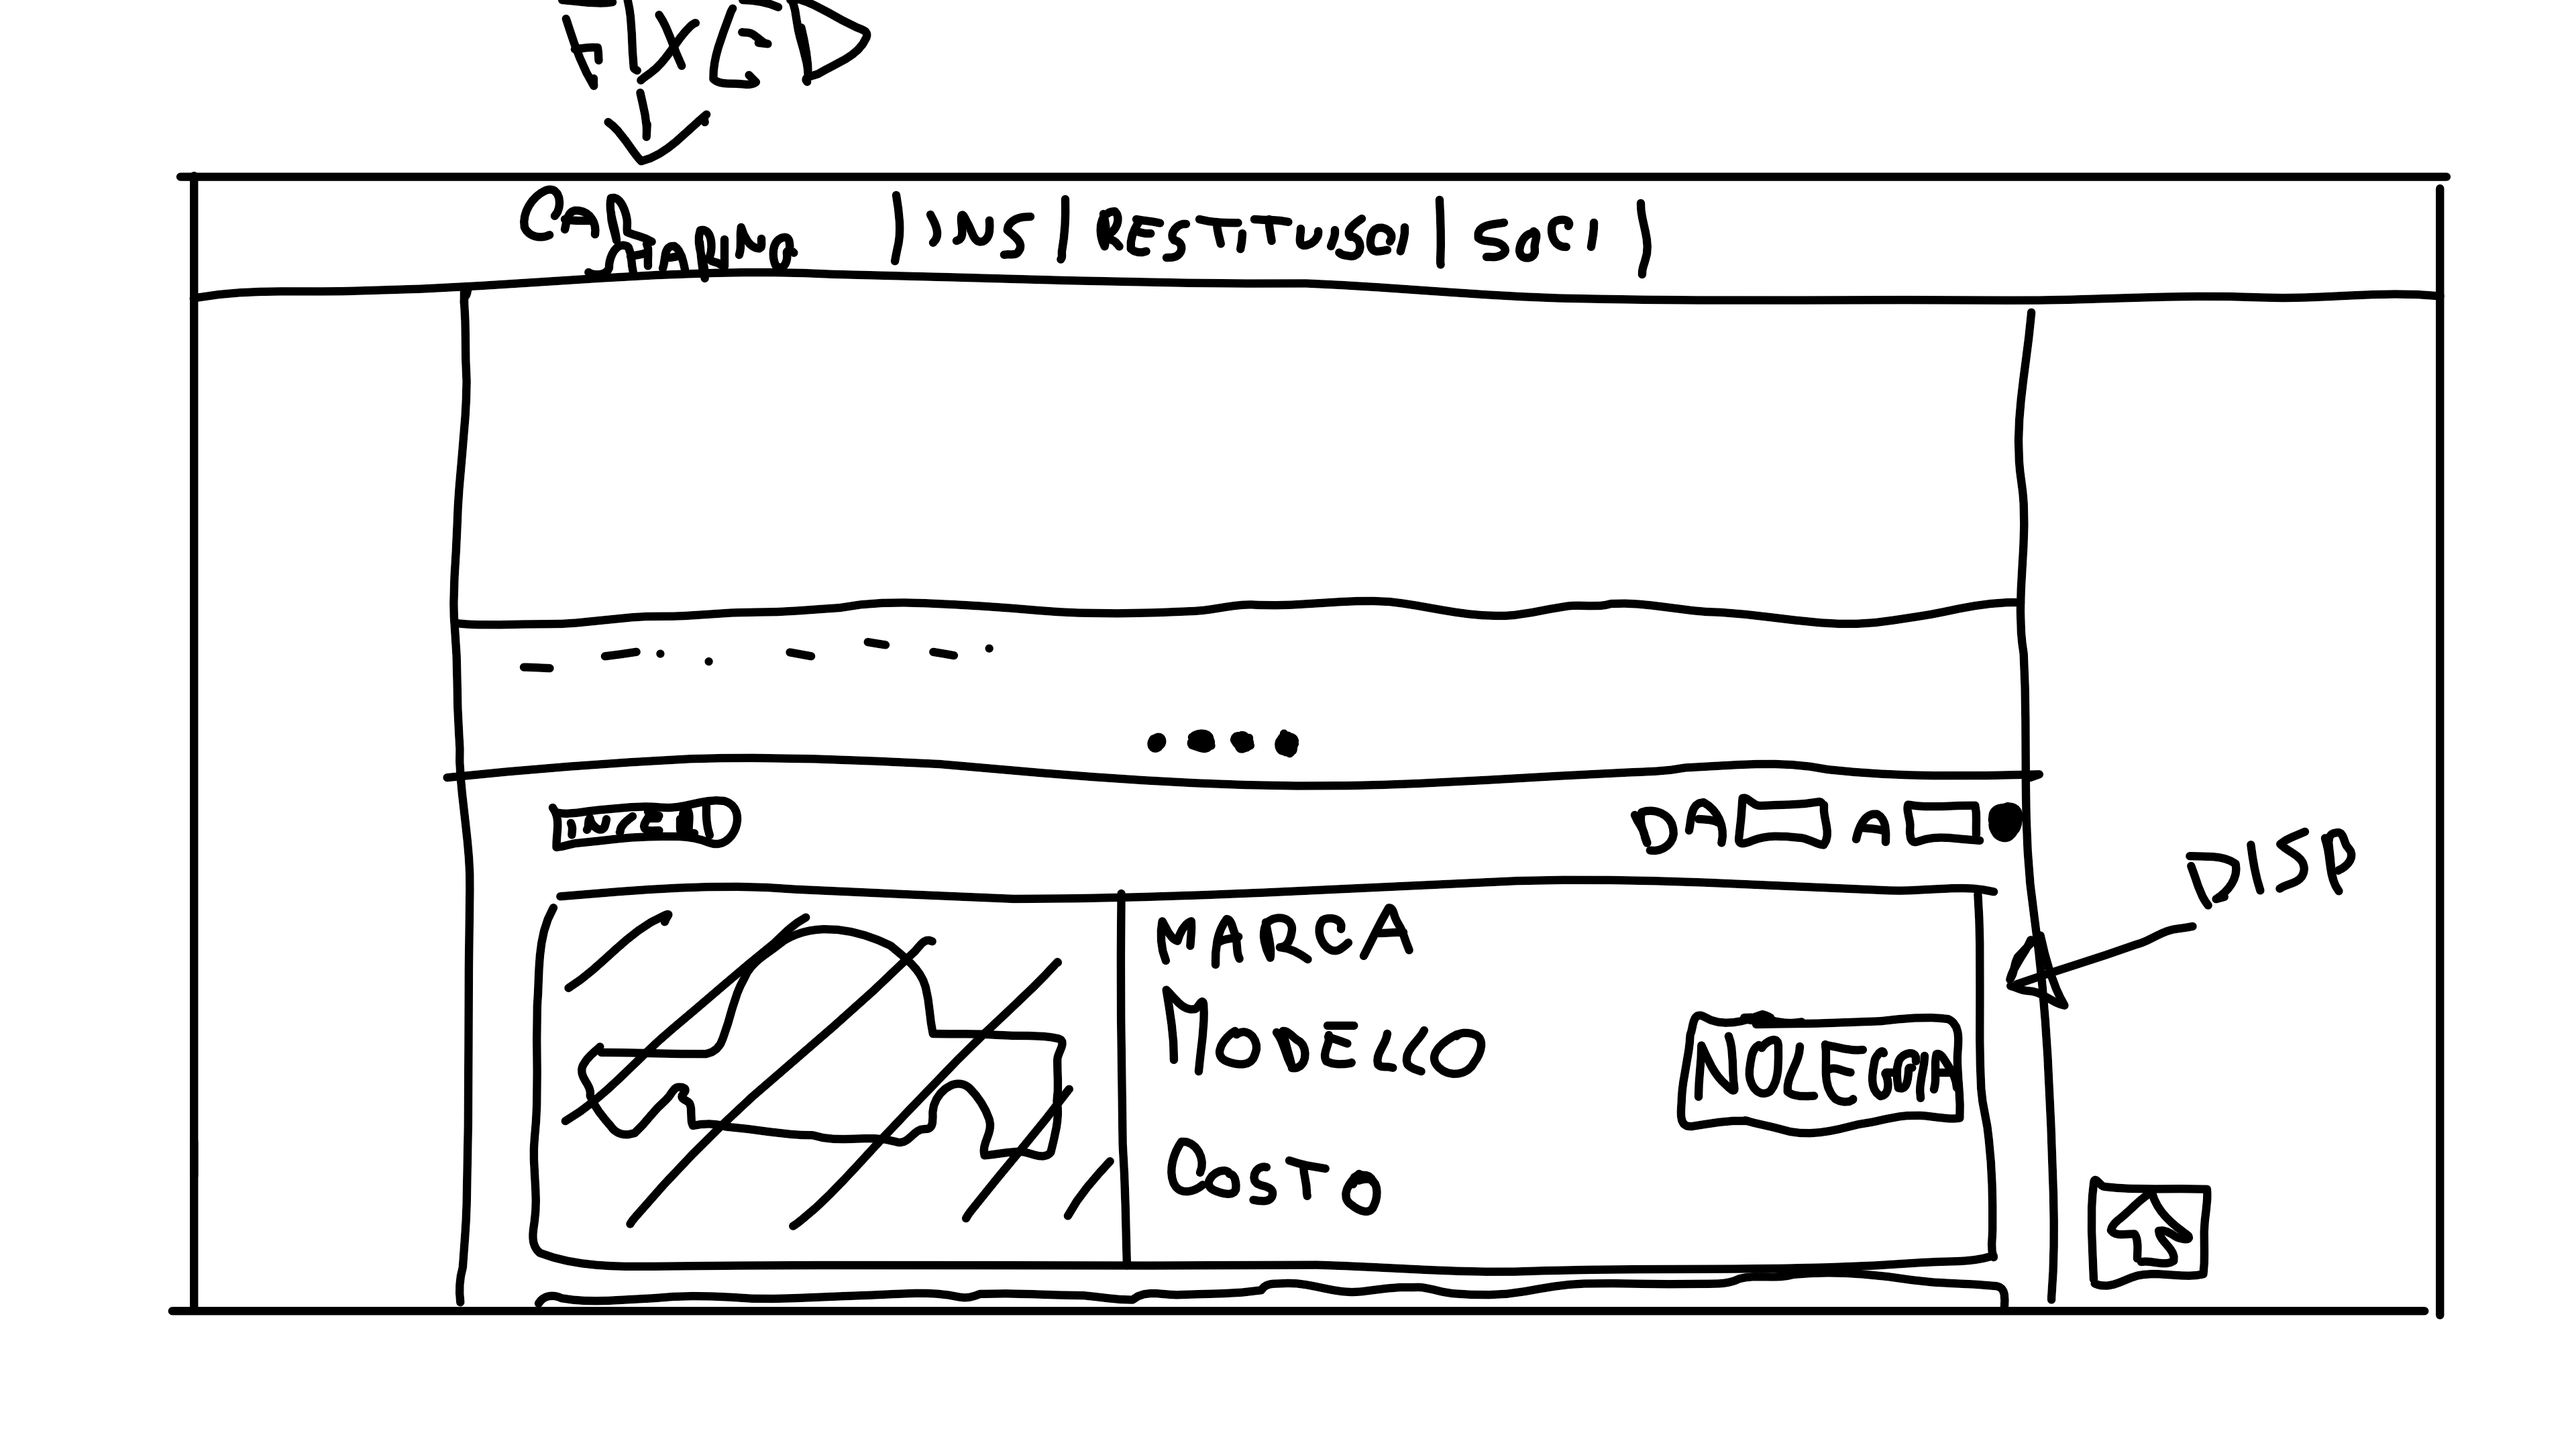
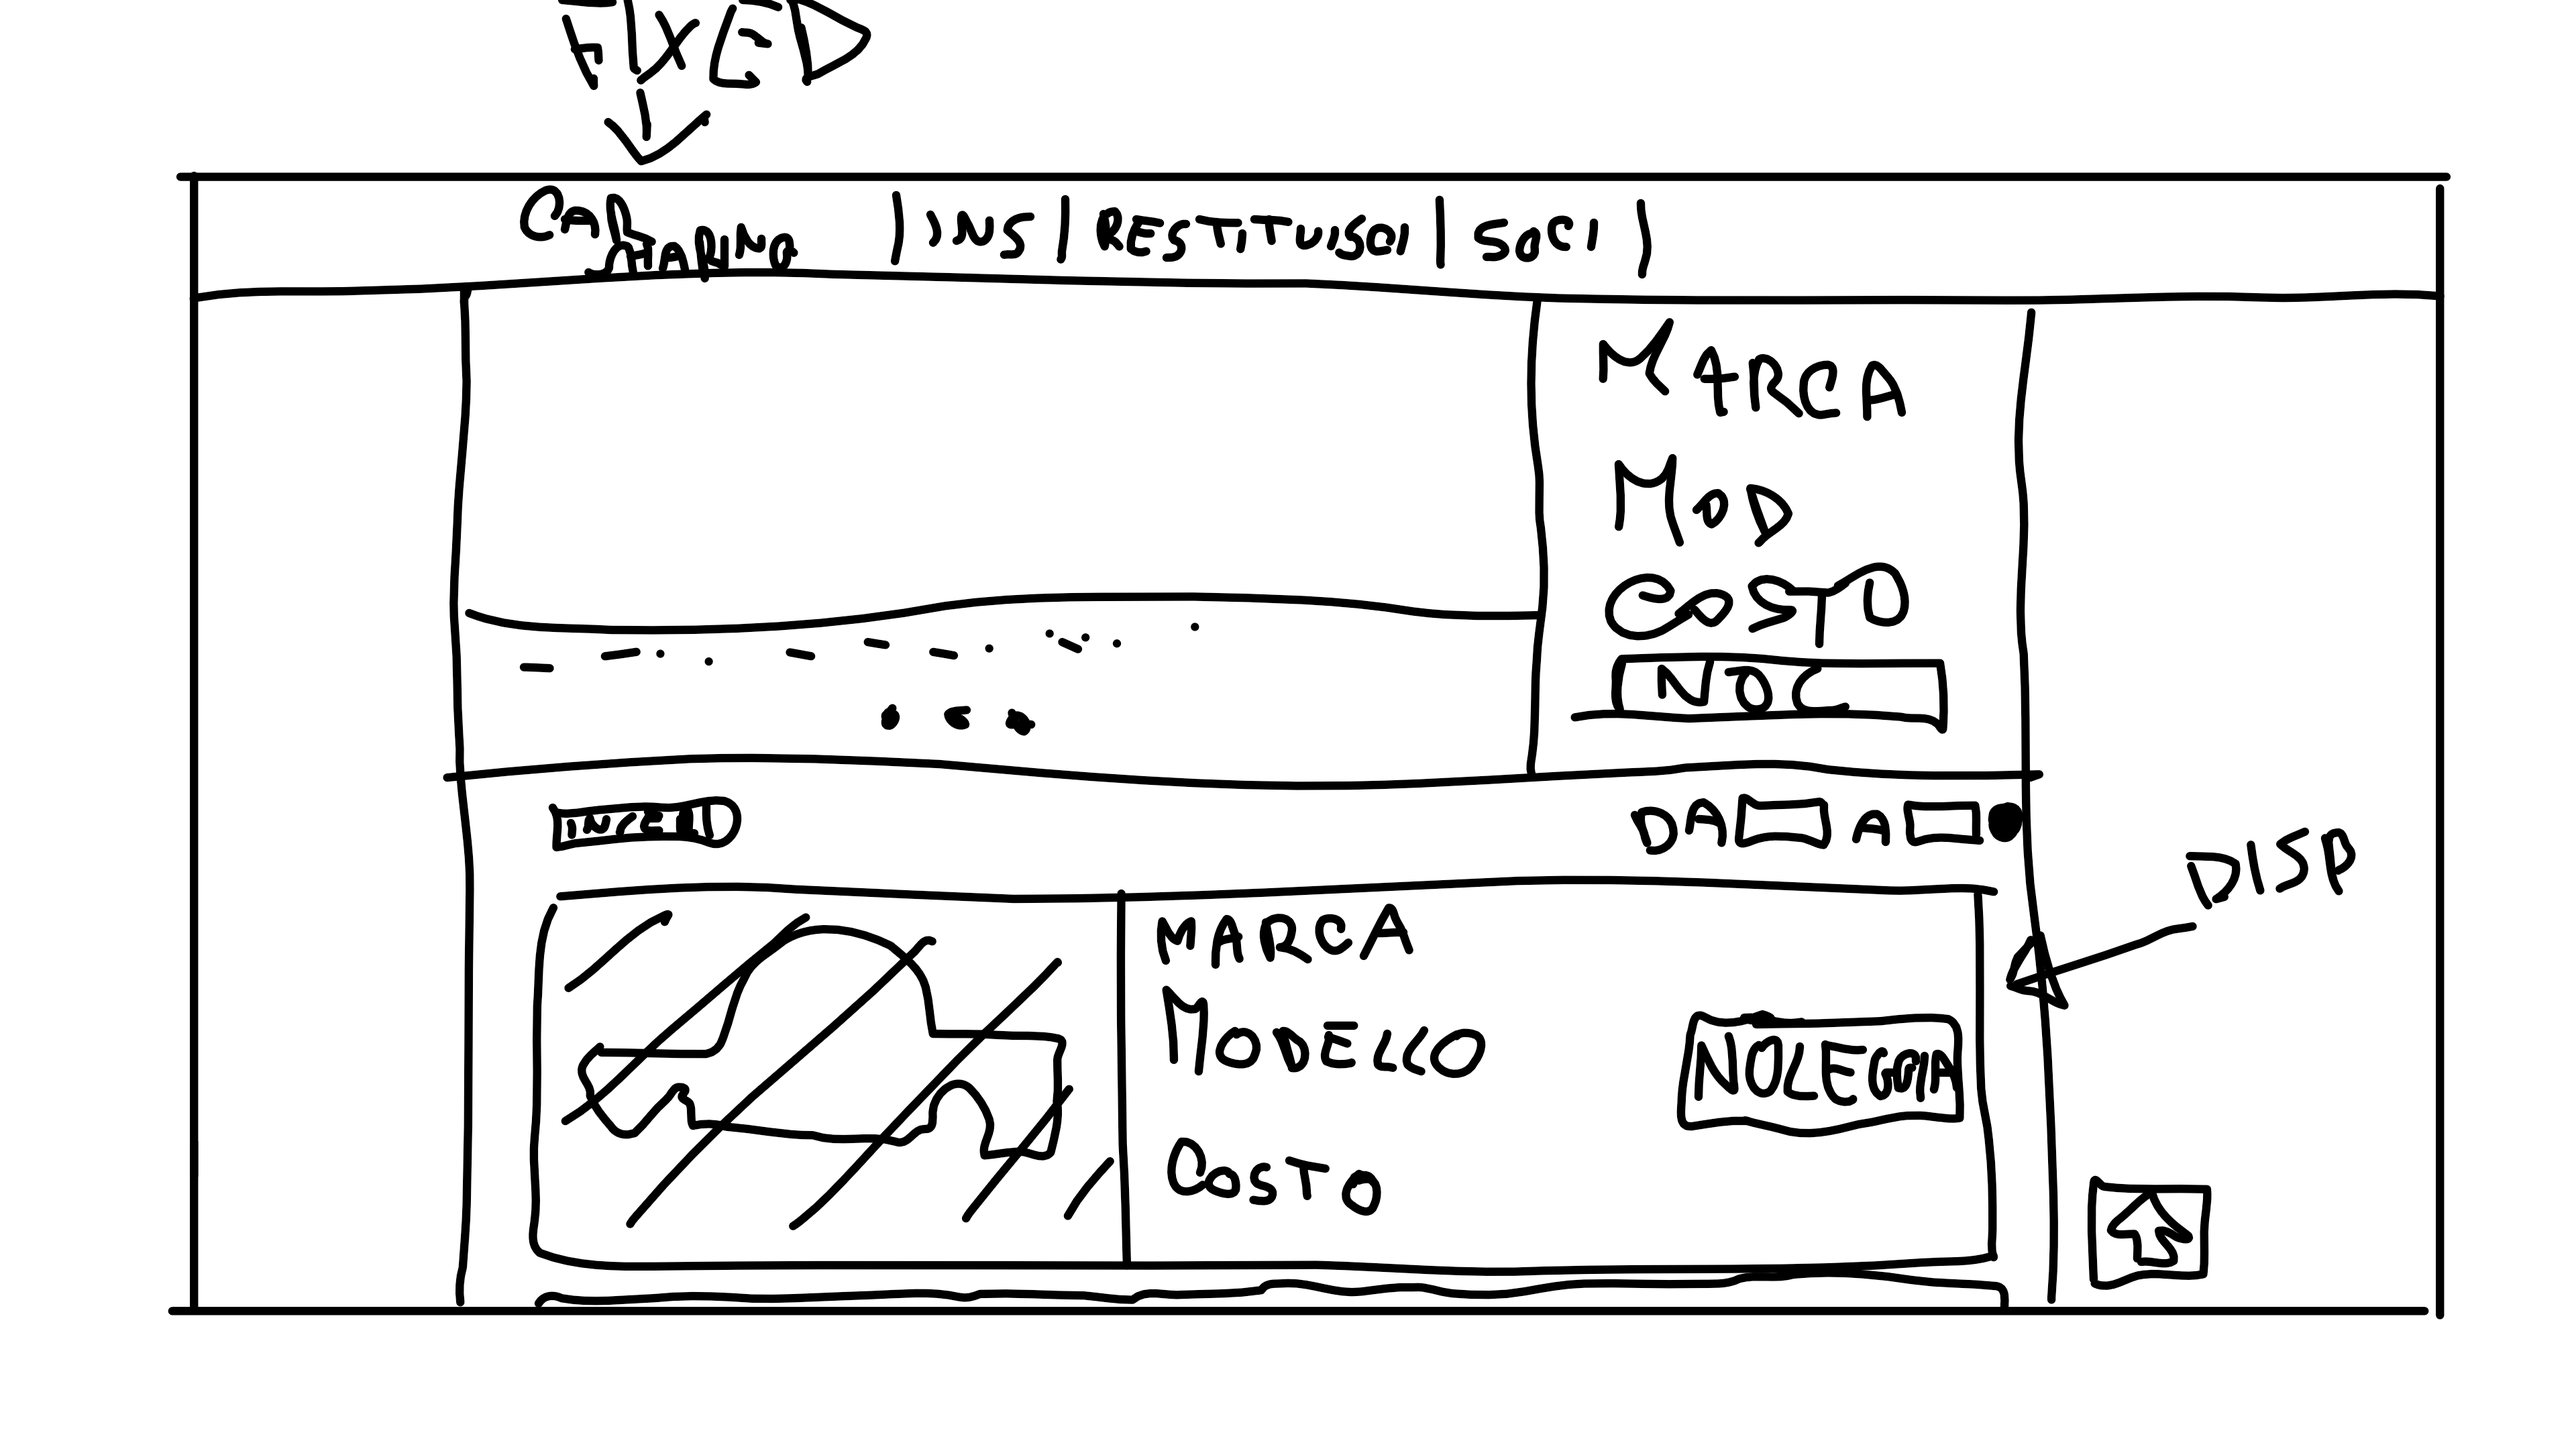
Struttura home e schizzo

diff --git a/homestyle.css b/homestyle.css
@@ -1,13 +1,12 @@
 body {
     margin: 0;
-    /**background-image: url("img/backgrounds/background index.png");*/
     background-color: #F5F5F5;
 }
 
 .topnav {
     overflow: hidden;
     background-color: #333;
-    position: fixed; /* Set the navbar to fixed position */
+    /* position: fixed; /* Set the navbar to fixed position */
     top: 0; /* Position the navbar at the top of the page */
     width: 100%; /* Full width */
 }
@@ -59,12 +58,14 @@ body {
 
 /* Contenuto pagina */
 .page-content {
-    max-width: 1080px;
-    margin: auto;
     margin-top: 60px;
     padding: 10px 28px;
-    /**background-image: url("img/backgrounds/soft_wallpaper.png");*/
-    background-color: #FAFAFA;
+    background-color: white;
+}
+
+.horizontal-centered {
+    max-width: 1080px;
+    margin: auto;
 }
 
 /* Footer pagina */
@@ -72,19 +73,4 @@ body {
     width: 100%;
     height: 40px;
     background-color: black;
-}
-
-.card {
-    background: white;
-    box-shadow: 0 4px 8px 0 rgba(0,0,0,0.2);
-    transition: 0.3s;
-    max-width: 400px;
-}
-
-.card:hover {
-    box-shadow: 0 8px 16px 0 rgba(0,0,0,0.2);
-}
-
-.card-content {
-    padding: 2px 16px;
 }

diff --git a/home.php b/home.php
@@ -6,14 +6,16 @@
         <title>Home</title>
     </head>
     <body>
-        <div class="topnav" id="homeTopNav">
+        <div style="background: black; position: fixed; width: 100%;">
+        <div class="topnav horizontal-centered" id="homeTopNav">
             <a href="#home">Home</a>
             <a href="#news">Elemento 2</a>
             <a href="#contact">Elemento 3</a>
             <a href="#about">Elemento 4</a>
             <a href="javascript:void(0);" style="font-size:15px;" class="icon" onclick="showMenu()">&#9776;</a>
         </div>
-        <div class="page-content">
+        </div>
+        <div class="page-content horizontal-centered">
             <p>Contenuto pagina</p>
             <p>Contenuto pagina</p>
             <p>Contenuto pagina</p>
@@ -23,13 +25,6 @@
             <p>Contenuto pagina</p>
             <p>Contenuto pagina</p>
             <p>Contenuto pagina</p>
-            <div class="card">
-                <!--<img src="img_avatar.png" alt="Domenico" style="width:100%">-->
-                <div class="card-content">
-                    <h4><b>Nome Cognome</b></h4> 
-                    <p>Titolo Tesina</p> 
-                </div>
-            </div>
             <p>Contenuto pagina</p>
             <p>Contenuto pagina</p>
             <p>Contenuto pagina</p>
